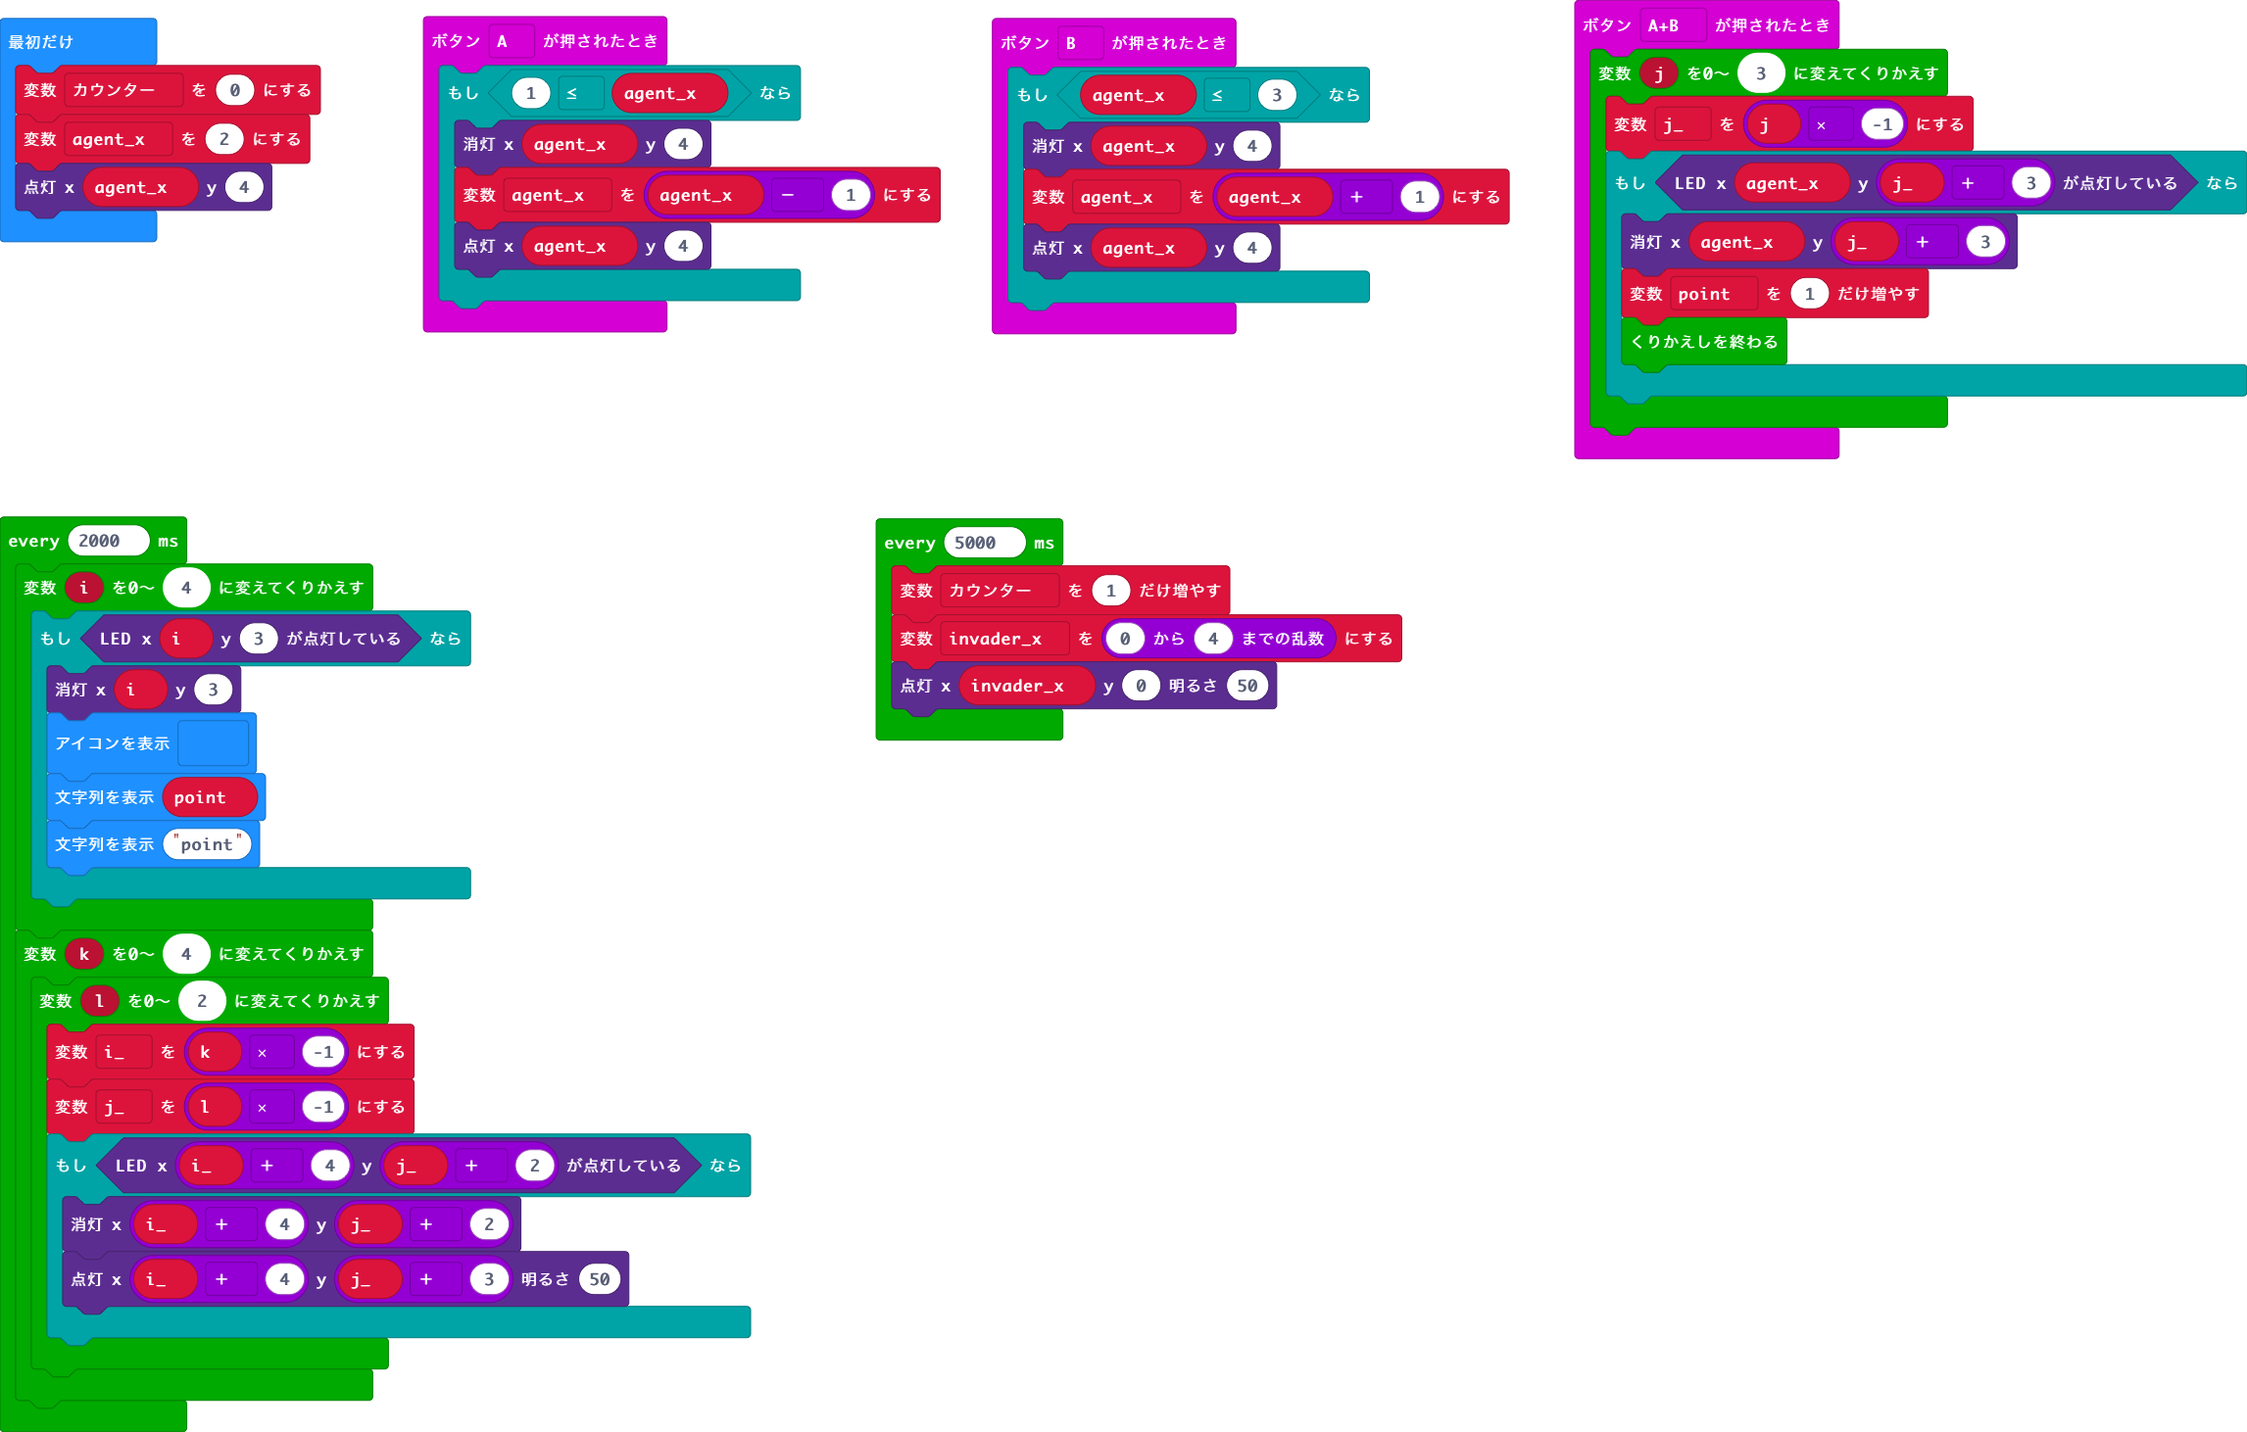
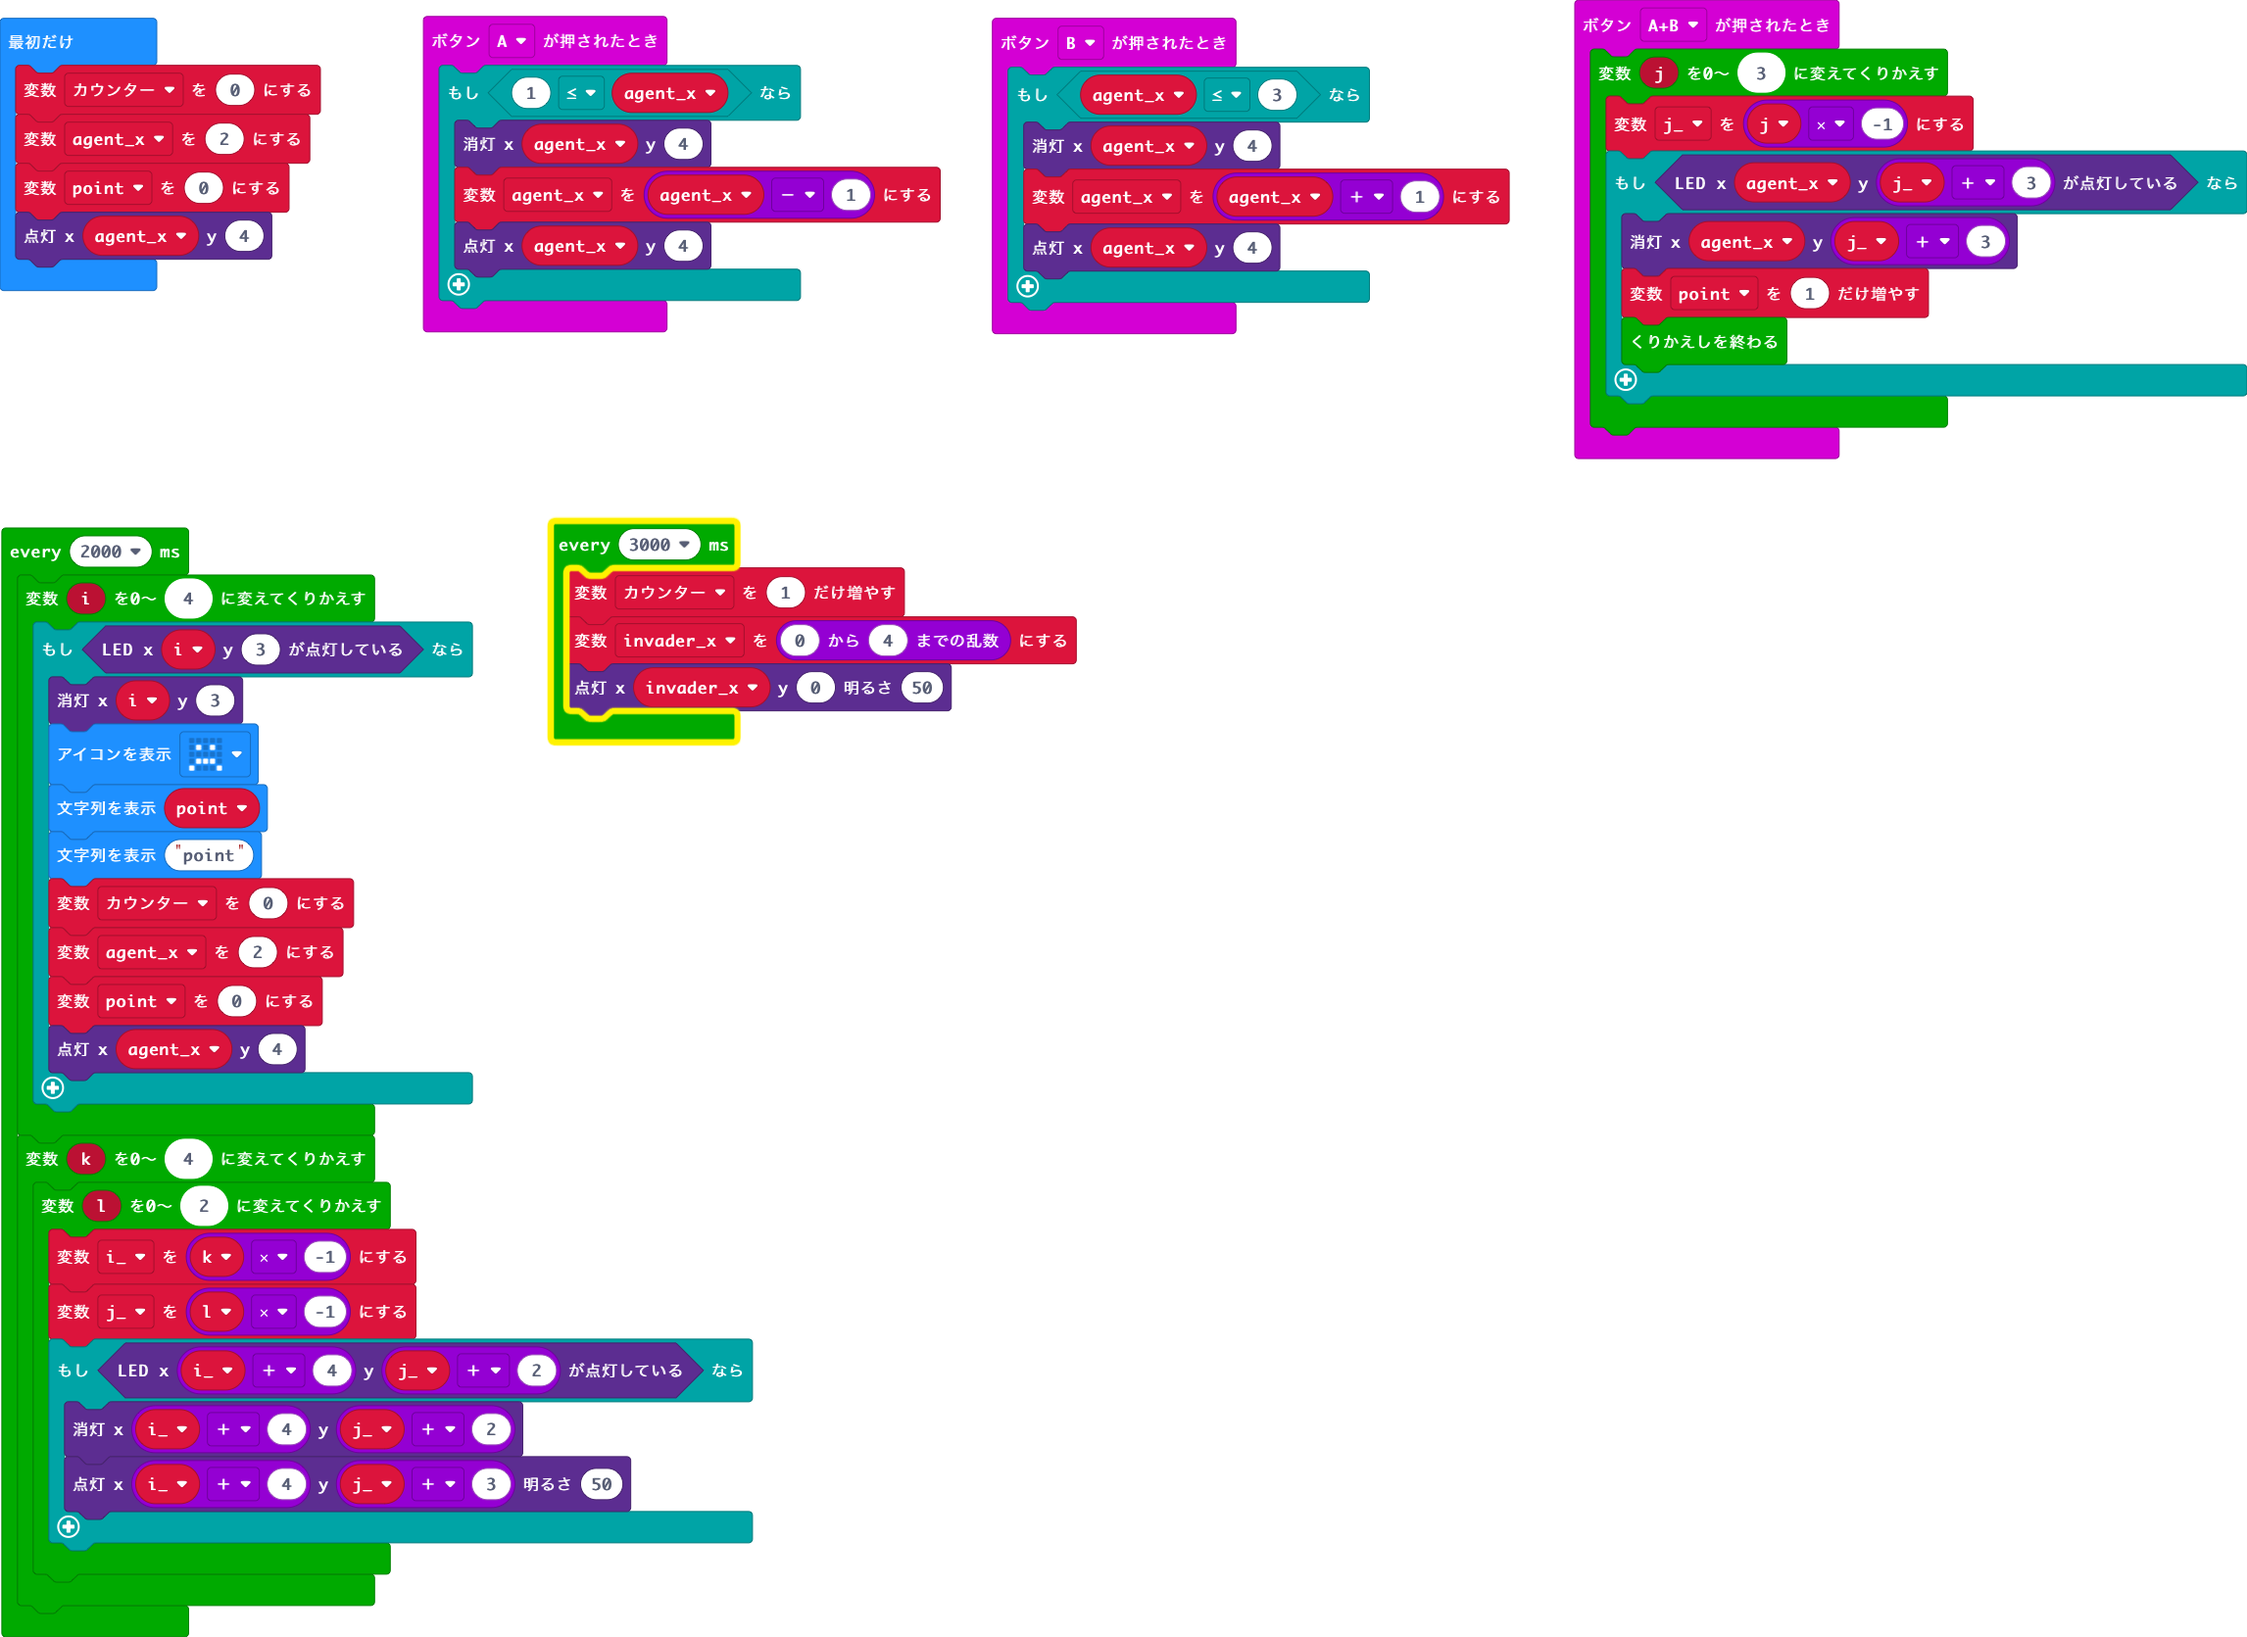
更新 main.blocks, main.ts

diff --git a/main.ts b/main.ts
@@ -24,11 +24,11 @@ input.onButtonPressed(Button.B, function () {
 })
 let invader_x = 0
 let i_ = 0
-let point = 0
 let j_ = 0
 let agent_x = 0
 let カウンター = 0
 agent_x = 2
+let point = 0
 led.plot(agent_x, 4)
 loops.everyInterval(2000, function () {
     for (let i = 0; i <= 4; i++) {
@@ -37,6 +37,10 @@ loops.everyInterval(2000, function () {
             basic.showIcon(IconNames.Sad)
             basic.showString("" + (point))
             basic.showString("point")
+            カウンター = 0
+            agent_x = 2
+            point = 0
+            led.plot(agent_x, 4)
         }
     }
     for (let k = 0; k <= 4; k++) {
@@ -50,7 +54,7 @@ loops.everyInterval(2000, function () {
         }
     }
 })
-loops.everyInterval(5000, function () {
+loops.everyInterval(3000, function () {
     カウンター += 1
     invader_x = randint(0, 4)
     led.plotBrightness(invader_x, 0, 50)
